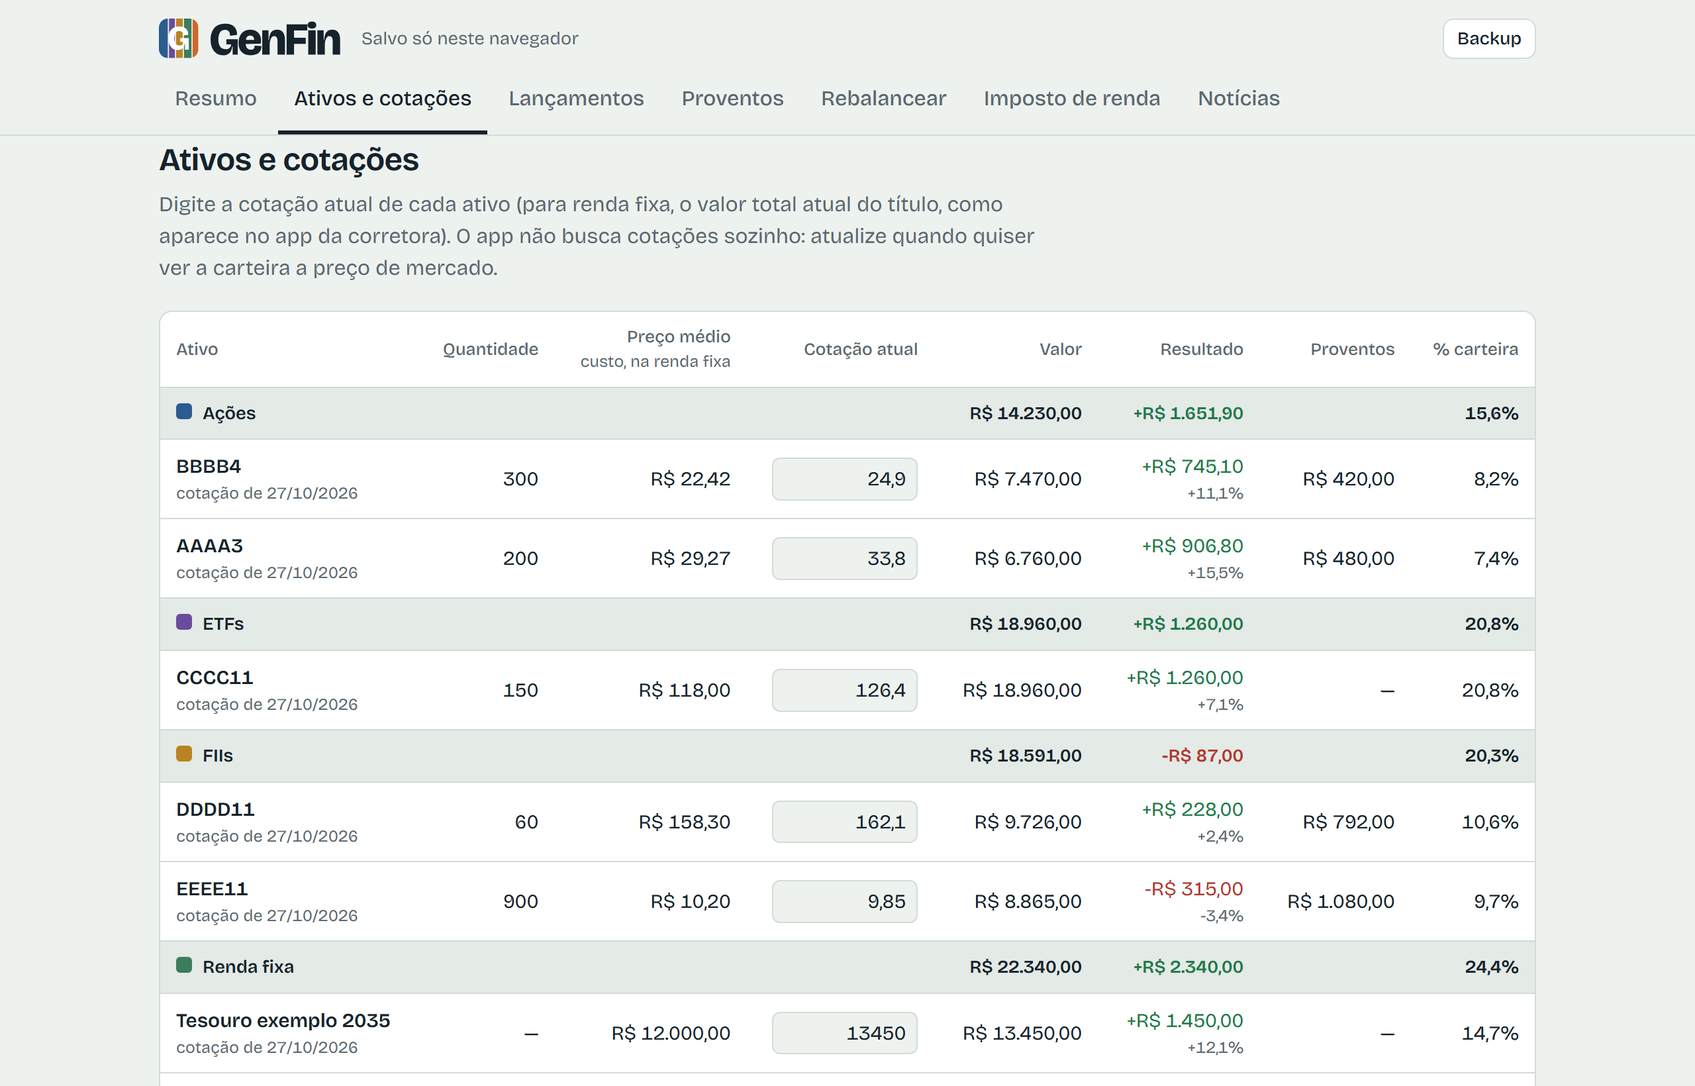
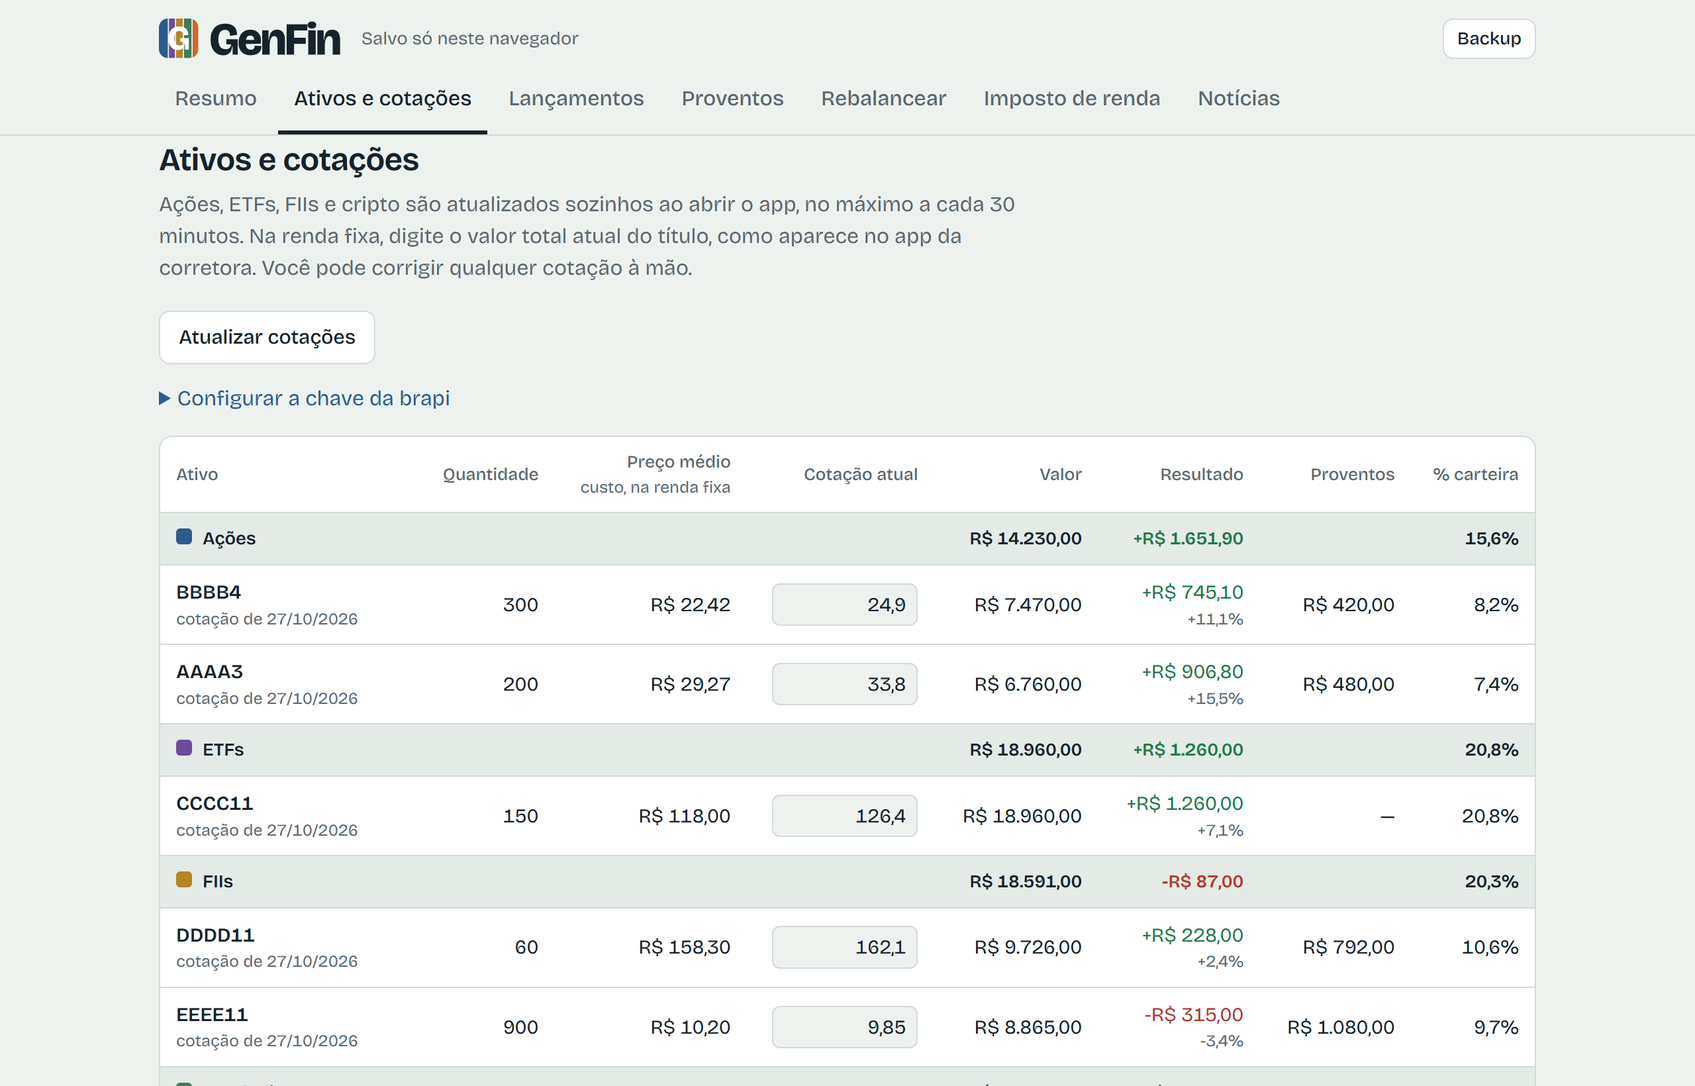
Cotações automáticas: brapi para a B3 e Mercado Bitcoin para cripto
- Ações, ETFs e FIIs pela brapi.dev (chave gratuita, 1 ativo por consulta,
  4 em paralelo); cripto pelo Mercado Bitcoin, numa consulta só e sem chave
- Busca sozinha ao abrir o app, no máximo a cada 30 minutos, e botão
  "Atualizar cotações" na aba Ativos com o resumo da última busca
- A chave fica só no localStorage, fora do backup e da sincronização
- Fracionário (ITSA4F) usa a cotação do lote; renda fixa segue manual
- Chave recusada, limite do plano e falta de rede param a busca sem mexer
  nas cotações; na busca automática só a chave recusada gera aviso
- Não redesenha telas com formulário, e a cotação que chega com o modo
  exemplo aberto vai para a carteira real
- 19 testes novos com as APIs simuladas

diff --git a/carteira.html b/carteira.html
@@ -113,6 +113,13 @@ tfoot td{font-weight:650;border-top:1px solid var(--line)}
 .mini{display:block;color:var(--muted);font-size:.78rem;font-weight:400}
 input.cot{width:110px;text-align:right;border:1px solid var(--line);border-radius:6px;padding:4px 8px;background:var(--bg)}
 input.cot.vazio{border-color:var(--warn)}
+.cotbar{display:flex;gap:8px 14px;align-items:center;flex-wrap:wrap;margin:0 0 14px}
+.cotbar .nota{margin:0}
+.btn[disabled]{opacity:.6;cursor:progress}
+details.chave{margin:0 0 16px;max-width:72ch}
+details.chave summary{cursor:pointer;color:var(--focus);width:max-content;max-width:100%}
+.linha-chave{display:flex;gap:8px;flex-wrap:wrap}
+.linha-chave input{flex:1 1 220px;min-width:0;border:1px solid var(--line);border-radius:8px;padding:8px 10px;background:var(--bg);color:var(--ink)}
 .altura{max-height:460px;overflow:auto}
 
 /* Formulários */
@@ -574,6 +581,80 @@ function rResumo(el){
   </div>`;
 }
 
+/* ---------- Cotações automáticas ---------- */
+// B3 pela brapi.dev (plano gratuito: 1 ativo por requisição, pede chave); cripto pelo Mercado Bitcoin (sem chave).
+// A chave e a hora da última busca ficam só neste navegador: não vão para o backup nem para a conta.
+const LS_CHAVE = "genfin-brapi-chave", LS_BUSCA = "genfin-cotacoes-em";
+const INTERVALO_AUTO = 30*60*1000;   // a brapi gratuita atualiza a cada 30 minutos
+const B3 = ["acao","etf","fii"];
+function lerLS(k){ try{ return localStorage.getItem(k)||""; }catch(e){ return ""; } }
+function gravarLS(k,v){ try{ if(v) localStorage.setItem(k,v); else localStorage.removeItem(k); }catch(e){} }
+let buscando = false, ultimaBusca = null;   // {em, ok, falhas:[ticker], erro}
+
+function simboloB3(t){ return /^[A-Z]{4}\d{1,2}F$/.test(t) ? t.slice(0,-1) : t; }   // fracionário usa o preço do lote
+function erroCot(tipo){ return Object.assign(new Error(tipo), {tipo}); }
+async function cotacaoB3(t, chave){
+  let r; try{ r = await fetch("https://brapi.dev/api/quote/"+encodeURIComponent(simboloB3(t))+"?token="+encodeURIComponent(chave)); }
+  catch(e){ throw erroCot("rede"); }
+  let j=null; try{ j = await r.json(); }catch(e){}
+  if(r.status===401 || /TOKEN/.test((j&&j.code)||"")) throw erroCot("chave");
+  if(r.status===429) throw erroCot("limite");
+  const v = j && Array.isArray(j.results) && j.results[0] ? Number(j.results[0].regularMarketPrice) : NaN;
+  return v>0 ? v : null;
+}
+async function cotacoesCripto(ts){
+  if(!ts.length) return {};
+  let r; try{ r = await fetch("https://api.mercadobitcoin.net/api/v4/tickers?symbols="+ts.map(t=>encodeURIComponent(t+"-BRL")).join(",")); }
+  catch(e){ throw erroCot("rede"); }
+  if(!r.ok) throw erroCot("servico");
+  const j = await r.json(); const out = {};
+  (Array.isArray(j)?j:[]).forEach(x=>{ const t=String(x.pair||"").replace(/-BRL$/,""), v=Number(x.last); if(v>0) out[t]=v; });
+  return out;
+}
+async function atualizarCotacoes({auto=false}={}){
+  if(buscando) return;
+  if(demo){ if(!auto) toast("No modo exemplo os ativos são fictícios e não têm cotação."); return; }
+  const alvo = S;   // a carteira pode trocar durante a busca (modo exemplo); as cotações vão para a de origem
+  const abertas = calcular().lista.filter(p=>p.qtd>0);
+  const chave = lerLS(LS_CHAVE);
+  const b3 = chave ? abertas.filter(p=>B3.includes(p.classe)).map(p=>p.ticker) : [];
+  const cripto = abertas.filter(p=>p.classe==="cripto").map(p=>p.ticker);
+  if(!b3.length && !cripto.length){
+    if(!auto) toast(abertas.some(p=>B3.includes(p.classe)) ? "Cole a chave da brapi para buscar ações, ETFs e FIIs." : "Nenhum ativo da carteira tem cotação automática.");
+    return;
+  }
+  buscando = true; if(abaAtual==="ativos") render("ativos");
+  const novos = {}, falhas = []; let erro = null;
+  try{ const c = await cotacoesCripto(cripto); cripto.forEach(t=>{ if(c[t]) novos[t]=c[t]; else falhas.push(t); }); }
+  catch(e){ erro = e.tipo==="rede" ? "rede" : null; falhas.push(...cripto); }
+  const fila = [...b3];
+  const trabalhador = async ()=>{
+    while(fila.length && !["chave","limite","rede"].includes(erro)){
+      const t = fila.shift();
+      try{ const v = await cotacaoB3(t, chave); if(v) novos[t]=v; else falhas.push(t); }
+      catch(e){ if(["chave","limite","rede"].includes(e.tipo)) erro = e.tipo; falhas.push(t); }
+    }
+  };
+  await Promise.all([1,2,3,4].map(trabalhador));
+  falhas.push(...fila);   // o que ficou na fila depois de um erro geral
+  const hoje = hojeISO();
+  Object.entries(novos).forEach(([t,v])=>{ alvo.precos[t] = {v, em:hoje}; });
+  const ok = Object.keys(novos).length;
+  if(ok && S===alvo){ registrarHist(); salvar("carteira","historico"); }
+  gravarLS(LS_BUSCA, String(Date.now()));
+  ultimaBusca = {em:Date.now(), ok, falhas:[...new Set(falhas)], erro};
+  buscando = false;
+  // Só redesenha as telas sem formulário, para não apagar o que a pessoa está digitando
+  if(abaAtual==="ativos" || abaAtual==="resumo") render(abaAtual);
+  if(!auto || erro==="chave") toast(resumoBusca(ultimaBusca));
+}
+function resumoBusca(b){
+  const msg = {chave:"A brapi recusou a chave. Confira a chave em Ativos e cotações.", limite:"A brapi atingiu o limite de consultas do plano. Tente mais tarde.", rede:"Não foi possível acessar os serviços de cotação daqui. Digite as cotações à mão."}[b.erro];
+  if(msg) return (b.ok ? `${b.ok} ${b.ok===1?"cotação atualizada":"cotações atualizadas"}. ` : "") + msg;
+  return `${b.ok} ${b.ok===1?"cotação atualizada":"cotações atualizadas"}` + (b.falhas.length ? `. Sem cotação: ${b.falhas.join(", ")}.` : ".");
+}
+function precisaBuscar(){ return Date.now() - Number(lerLS(LS_BUSCA)||0) > INTERVALO_AUTO; }
+
 /* ---------- Ativos e cotações ---------- */
 function rAtivos(el){
   const c = calcular();
@@ -598,14 +679,33 @@ function rAtivos(el){
         <td>${pct(c.total?p.valor/c.total:0)}</td></tr>`;
     }
   }
+  const chave = lerLS(LS_CHAVE), temB3 = ativas.some(p=>B3.includes(p.classe));
   el.innerHTML = `<h2>Ativos e cotações</h2>
-  <p class="sub">Digite a cotação atual de cada ativo (para renda fixa, o valor total atual do título, como aparece no app da corretora). O app não busca cotações sozinho: atualize quando quiser ver a carteira a preço de mercado.</p>
+  <p class="sub">Ações, ETFs, FIIs e cripto são atualizados sozinhos ao abrir o app, no máximo a cada 30 minutos. Na renda fixa, digite o valor total atual do título, como aparece no app da corretora. Você pode corrigir qualquer cotação à mão.</p>
+  <div class="cotbar">
+    <button class="btn" data-act="atualizar-cot"${buscando?" disabled":""}>${buscando?"Buscando cotações…":"Atualizar cotações"}</button>
+    <span class="nota" aria-live="polite">${esc(statusBusca())}</span>
+  </div>
+  ${temB3||chave?`<details class="chave"${!chave&&!demo?" open":""}>
+    <summary>${chave?"Chave da brapi configurada":"Configurar a chave da brapi"}</summary>
+    <p class="nota">As cotações de ações, ETFs e FIIs vêm da <a href="https://brapi.dev" target="_blank" rel="noopener noreferrer">brapi.dev</a>, que pede uma chave gratuita: 15 mil consultas por mês, com dados atualizados a cada 30 minutos. Crie a sua no site e cole aqui. Cripto vem do Mercado Bitcoin e não precisa de chave. A chave fica só neste navegador e não entra no backup.</p>
+    <div class="linha-chave"><input id="chave-brapi" type="password" autocomplete="off" spellcheck="false" placeholder="${chave?"Cole uma nova chave para trocar":"Cole a chave aqui"}" aria-label="Chave da brapi">
+      <button class="btn" data-act="salvar-chave">Salvar chave</button>${chave?`<button class="btn perigo" data-act="remover-chave" data-armar="Confirmar">Remover</button>`:""}</div>
+  </details>`:""}
   <div class="rolagem"><table>
     <thead><tr><th>Ativo</th><th>Quantidade</th><th>Preço médio<span class="mini">custo, na renda fixa</span></th><th>Cotação atual</th><th>Valor</th><th>Resultado</th><th>Proventos</th><th>% carteira</th></tr></thead>
     <tbody>${linhas}</tbody>
     <tfoot><tr><td>Total</td><td></td><td>${brl(c.custo)}</td><td></td><td>${brl(c.total)}</td><td class="${cls(c.total-c.custo)}">${brlSinal(c.total-c.custo)}</td><td>${brl(c.provs)}</td><td>100%</td></tr></tfoot>
   </table></div>
   <p class="nota">Ativos com borda destacada estão sem cotação e entram no total pelo preço médio.</p>`;
+}
+function statusBusca(){
+  if(buscando) return "";
+  const em = ultimaBusca ? ultimaBusca.em : Number(lerLS(LS_BUSCA)||0);
+  if(!em) return "";
+  const d = new Date(em), hora = d.toLocaleTimeString("pt-BR",{hour:"2-digit",minute:"2-digit"});
+  const quando = isoLocal(d)===hojeISO() ? "hoje às "+hora : dataBR(isoLocal(d))+" às "+hora;
+  return "Última busca "+quando+(ultimaBusca ? ": "+resumoBusca(ultimaBusca) : ".");
 }
 function salvarCotacao(inp){
   const t = inp.dataset.t; const v = parseNum(inp.value);
@@ -994,13 +1094,23 @@ document.addEventListener("click", e=>{
   else if(a==="fechar-backup") $("#dlg-backup").close();
   else if(a==="exportar-json") baixar("carteira-backup-"+hojeISO()+".json", JSON.stringify(demo?realGuardado:S,null,1));
   else if(a==="exportar-csv") baixar("lancamentos-"+hojeISO()+".csv", csvLanc());
+  else if(a==="atualizar-cot") atualizarCotacoes();
+  else if(a==="salvar-chave"){
+    const v = $("#chave-brapi").value.trim();
+    if(!v){ toast("Cole a chave antes de salvar."); return; }
+    gravarLS(LS_CHAVE, v); toast("Chave salva. Buscando cotações…"); atualizarCotacoes();
+  }
+  else if(a==="remover-chave"){ gravarLS(LS_CHAVE, ""); render("ativos"); toast("Chave removida"); }
   else if(a==="apagar-tudo"){ if(demo) sairDemo(); S=vazio(); salvar(...TODOS_DOCS); renderTudo(); b.classList.remove("armado"); b.textContent="Apagar todos os dados"; $("#backup-msg").textContent="Todos os dados foram apagados."; }
 });
 document.addEventListener("change", e=>{
   if(e.target.matches("input.cot")){ if(demo){ toast("No modo exemplo nada é salvo."); return; } salvarCotacao(e.target); }
   if(e.target.id==="arq-import" && e.target.files[0]){ importar(e.target.files[0]); e.target.value=""; }
 });
-document.addEventListener("keydown", e=>{ if(e.key==="Enter" && e.target.matches("input.cot")) e.target.blur(); });
+document.addEventListener("keydown", e=>{
+  if(e.key==="Enter" && e.target.matches("input.cot")) e.target.blur();
+  if(e.key==="Enter" && e.target.id==="chave-brapi") $('[data-act="salvar-chave"]').click();
+});
 window.addEventListener("hashchange", ()=>{ const h=location.hash.slice(1); if(ABAS.includes(h)) irPara(h); });
 
 /* ---------- Início ---------- */
@@ -1008,7 +1118,8 @@ carregarLocal();
 atualizarDatalist();
 irPara(ABAS.includes(location.hash.slice(1)) ? location.hash.slice(1) : "resumo");
 estado("Salvo só neste navegador");
-conectar();
+// Busca cotações depois de carregar os dados da conta, para atualizar a carteira mais recente
+conectar().then(()=>{ if(precisaBuscar()) atualizarCotacoes({auto:true}); });
 </script>
 </body>
 </html>

diff --git a/tests/carteira.test.js b/tests/carteira.test.js
@@ -15,8 +15,10 @@ const mem = {};
 const ambiente = {
   document:{ querySelector:q, querySelectorAll:()=>[], addEventListener(){} },
   window:{ addEventListener(){}, scrollTo(){}, scrollY:0 },
-  localStorage:{ getItem:k=>mem[k]??null, setItem:(k,v)=>{mem[k]=v;} },
-  location:{hash:""}, fakeEl
+  localStorage:{ getItem:k=>mem[k]??null, setItem:(k,v)=>{mem[k]=v;}, removeItem:k=>{delete mem[k];} },
+  location:{hash:""}, fakeEl, mem,
+  // fetch simulado: cada teste troca globalThis.__fetch
+  fetch:(...a)=>globalThis.__fetch(...a)
 };
 const testes = `
 let falhas=0; const ok=(c,m)=>{ if(!c){falhas++; console.log("FALHOU:",m);} else console.log("ok:",m); };
@@ -81,6 +83,72 @@ ok(/acima de R\\$ 50 mil no mês: BBAS3 em mar\\/26\\./.test(el.innerHTML), "avi
 ok(/isentos até R\\$ 50 mil/.test(el.innerHTML), "rótulo novo em 2026");
 anoIR="2025"; S.txs.push({id:"c",criado:0,data:"2025-01-01",tipo:"compra",classe:"acao",ticker:"BBAS3",qtd:1,preco:1,taxas:0});
 const el2=fakeEl(); rIR(el2); ok(!/Lei 15.270/.test(el2.innerHTML) && /rendimentos isentos/.test(el2.innerHTML), "2025 mantém texto antigo");
+
+// 8. cotações automáticas
+const resp = (status, corpo) => Promise.resolve({ ok: status<400, status, json: async()=>corpo });
+const B3P = { PETR4:53.25, ITSA4:10.5, HGLG11:160.4 };
+let chamadas = [];
+const mercado = url => {
+  chamadas.push(url);
+  if(url.includes("mercadobitcoin")){
+    const pedidos = decodeURIComponent(url.split("symbols=")[1]).split(",");
+    return resp(200, pedidos.filter(s=>s==="BTC-BRL").map(s=>({pair:s, last:"430325.00000000"})));
+  }
+  const sim = decodeURIComponent(url.split("/quote/")[1].split("?")[0]);
+  if(!url.includes("token=chave-boa")) return resp(401, {error:true, code:"INVALID_TOKEN"});
+  return B3P[sim] ? resp(200, {results:[{symbol:sim, regularMarketPrice:B3P[sim]}]}) : resp(404, {error:true, message:"Não encontramos"});
+};
+let avisos2 = []; toast = m=>avisos2.push(m);
+abaAtual = "ir";
+S = vazio(); S.atualizado = 1;
+[["acao","PETR4",100,30],["acao","ITSA4F",37,9],["fii","HGLG11",10,150],["acao","XPTO3",5,10],["cripto","BTC",0.01,300000],["cripto","FAKECOIN",3,1]].forEach(([classe,ticker,qtd,preco])=>
+  add({classe, tipo:"compra", data:"2026-01-05", ticker, qtd:String(qtd).replace(".",","), preco:String(preco)}));
+add({classe:"rf",tipo:"compra",data:"2026-01-05",ticker:"CDB Y",valor:"1000"});
+ok(S.txs.length===7, "monta carteira para cotações");
+
+globalThis.__fetch = mercado; chamadas = [];
+await atualizarCotacoes({auto:true});
+ok(chamadas.length===1 && chamadas[0].includes("mercadobitcoin") && S.precos.BTC.v===430325, "sem chave busca só cripto, sem chamar a brapi");
+ok(ultimaBusca.falhas.includes("FAKECOIN") && !S.precos.FAKECOIN, "cripto inexistente fica sem cotação");
+
+mem[LS_CHAVE] = "chave-ruim"; chamadas = []; avisos2 = [];
+await atualizarCotacoes({auto:true});
+ok(ultimaBusca.erro==="chave" && !S.precos.PETR4 && /recusou a chave/.test(avisos2[0]||""), "chave recusada avisa mesmo na busca automática: "+avisos2[0]);
+ok(chamadas.filter(u=>u.includes("brapi")).length<=4, "para de consultar a brapi depois da chave recusada");
+
+mem[LS_CHAVE] = "chave-boa"; chamadas = []; avisos2 = [];
+const histAntes = S.hist.length; S.hist = [];
+await atualizarCotacoes();
+ok(S.precos.PETR4.v===53.25 && S.precos.HGLG11.v===160.4 && S.precos.PETR4.em===hojeISO(), "atualiza ações e FIIs com a data de hoje");
+ok(S.precos.ITSA4F.v===10.5 && chamadas.some(u=>u.includes("/quote/ITSA4?")), "fracionário usa a cotação do lote");
+ok(ultimaBusca.falhas.join()==="FAKECOIN,XPTO3" || ultimaBusca.falhas.sort().join()==="FAKECOIN,XPTO3", "lista o que ficou sem cotação: "+ultimaBusca.falhas.join());
+ok(!("CDB Y" in S.precos) && !chamadas.some(u=>u.includes("CDB")), "renda fixa não é consultada");
+ok(S.hist.length===1 && mem[LS_BUSCA], "registra o patrimônio do dia e a hora da busca");
+ok(/4 cotações atualizadas\\. Sem cotação: /.test(avisos2[0]||""), "resumo da busca manual: "+avisos2[0]);
+
+ok(!JSON.stringify(S).includes("chave-boa") && !JSON.stringify(DOCS.carteira(S)).includes("chave-boa"), "a chave não vai para o backup nem para a conta");
+mem[LS_BUSCA] = String(Date.now()); ok(!precisaBuscar(), "não busca de novo antes de 30 minutos");
+mem[LS_BUSCA] = String(Date.now()-31*60*1000); ok(precisaBuscar(), "busca de novo depois de 30 minutos");
+
+globalThis.__fetch = ()=>Promise.reject(new TypeError("Failed to fetch")); avisos2 = [];
+const antes = JSON.stringify(S.precos);
+await atualizarCotacoes({auto:true});
+ok(ultimaBusca.erro==="rede" && JSON.stringify(S.precos)===antes && avisos2.length===0, "sem rede não muda nada e não incomoda na busca automática");
+await atualizarCotacoes();
+ok(/Não foi possível acessar/.test(avisos2[0]||""), "sem rede avisa na busca manual");
+
+const elA = fakeEl(); rAtivos(elA);
+ok(/Atualizar cotações/.test(elA.innerHTML) && /Chave da brapi configurada/.test(elA.innerHTML) && /Última busca hoje às/.test(elA.innerHTML), "aba Ativos mostra botão, chave e última busca");
+
+entrarDemo(); chamadas = []; globalThis.__fetch = mercado;
+await atualizarCotacoes(); ok(chamadas.length===0, "modo exemplo não consulta cotações"); sairDemo();
+
+// busca começa na carteira real e o modo exemplo abre no meio dela
+let soltar; globalThis.__fetch = url => new Promise(r=>{ soltar = ()=>r(mercado(url)); });
+delete S.precos.BTC; mem[LS_CHAVE] = "";
+const busca = atualizarCotacoes(); entrarDemo(); soltar(); await busca;
+ok(S.precos.BTC.v===345000 && realGuardado.precos.BTC && realGuardado.precos.BTC.v===430325, "cotação que chega no modo exemplo vai para a carteira real");
+sairDemo();
 
 console.log(falhas? falhas+" falha(s)" : "todos passaram");
 return falhas;

diff --git a/README.md b/README.md
@@ -45,7 +45,7 @@ Preço médio, alocação, proventos, rebalanceamento e imposto de renda para qu
 | | |
 |---|---|
 | 📊 **Resumo** | Patrimônio, valorização em aberto, lucro realizado, proventos e resultado sobre o total aportado. Alocação atual comparada com a meta e gráfico de evolução. |
-| 💹 **Ativos e cotações** | Posição por classe com quantidade, preço médio, valor de mercado, resultado e peso na carteira. Você informa a cotação; sem ela, o ativo entra pelo preço médio. |
+| 💹 **Ativos e cotações** | Posição por classe com quantidade, preço médio, valor de mercado, resultado e peso na carteira. Cotações automáticas de ações, ETFs, FIIs e cripto; renda fixa e correções, à mão. |
 | 🧾 **Lançamentos** | Compras e vendas com taxas da nota de corretagem. Aplicações e resgates de renda fixa. Impede vendas maiores que o saldo, inclusive em datas retroativas. |
 | 💰 **Proventos** | Dividendos, JCP e rendimentos de FIIs, com gráfico dos últimos 12 meses e rendimento sobre o custo por ativo. |
 | ⚖ **Rebalancear** | Metas por classe e sugestão de como dividir um novo aporte para se aproximar delas, só com compras. |
@@ -78,7 +78,20 @@ Não há instalação nem build. O app inteiro é o [`carteira.html`](carteira.h
 
 1. Abra o `carteira.html` no navegador.
 2. Clique em **Ver com dados de exemplo** para conhecer as telas sem registrar nada, ou em **Adicionar lançamento** para começar a sua carteira.
-3. Atualize as cotações na aba **Ativos e cotações** sempre que quiser ver a carteira a preço de mercado.
+3. Para cotações automáticas de ações, ETFs e FIIs, crie uma chave gratuita na [brapi.dev](https://brapi.dev) e cole na aba **Ativos e cotações**. Cripto funciona sem chave.
+
+### Cotações automáticas
+
+| Classe | Fonte | Chave | Atualização |
+|---|---|---|---|
+| Ações, ETFs e FIIs | [brapi.dev](https://brapi.dev) | Gratuita, 15 mil consultas por mês | Dados a cada 30 minutos |
+| Cripto | [Mercado Bitcoin](https://www.mercadobitcoin.com.br) | Não precisa | Último negócio em reais |
+| Renda fixa | Você digita o valor atual do título | — | — |
+
+- O app busca sozinho ao abrir, no máximo a cada 30 minutos, e há um botão **Atualizar cotações**.
+- No plano gratuito, a brapi responde um ativo por consulta; o app faz quatro de cada vez.
+- Ações fracionárias (como `ITSA4F`) usam a cotação do lote (`ITSA4`).
+- O que não for encontrado continua com a última cotação, ou pelo preço médio, e aparece na mensagem da busca.
 
 O app também roda como **Artifact no claude.ai**. Lá ele usa o login e o banco de dados da conta para guardar os dados e sincronizar entre aparelhos.
 
@@ -92,7 +105,8 @@ flowchart LR
     S --> B[Backup<br>.json / .csv]
 ```
 
-- **Sempre no navegador**, na chave `carteira-v1` do `localStorage`. Fora do claude.ai, os dados não saem do seu computador.
+- **Sempre no navegador**, na chave `carteira-v1` do `localStorage`. Fora do claude.ai, a carteira não sai do seu computador. Para as cotações, só os **códigos** dos ativos (como `PETR4` ou `BTC`) vão para a brapi e o Mercado Bitcoin; quantidades e valores nunca são enviados.
+- **A chave da brapi** fica só no navegador, separada da carteira. Ela não entra no backup nem vai para a conta.
 - **No claude.ai**, também na conta do usuário, em quatro documentos (`carteira`, `lancamentos`, `proventos` e `historico`). Cada salvamento leva data e hora. Ao abrir, o lado mais recente vence, para não perder alterações feitas sem conexão.
 - **Backup:** o botão no topo exporta tudo em `.json`, exporta os lançamentos em `.csv` e restaura um backup. Os arquivos exportados estão no `.gitignore`, para não irem parar no repositório por engano.
 
@@ -145,7 +159,7 @@ Os testes rodam no Node 18 ou mais recente, sem instalar nada:
 npm test
 ```
 
-Eles cobrem a validação de saldo (vendas e resgates retroativos, exclusão de compras), a sincronização entre o navegador e a conta e o aviso de dividendos acima de R$ 50 mil.
+Eles cobrem a validação de saldo (vendas e resgates retroativos, exclusão de compras), a sincronização entre o navegador e a conta, o aviso de dividendos acima de R$ 50 mil e as cotações automáticas, com as APIs simuladas (chave recusada, ativo inexistente, falta de rede e modo exemplo).
 
 Para regenerar as capturas depois de mudar a interface (precisa do Chrome ou do Edge instalado):
 
@@ -177,7 +191,7 @@ Fonte: [Bricolage Grotesque](https://fonts.google.com/specimen/Bricolage+Grotesq
 
 ## Próximos passos
 
-- [ ] Cotações automáticas (brapi.dev para a B3, CoinGecko para cripto), mantendo a digitação manual
+- [x] Cotações automáticas (brapi.dev para a B3, Mercado Bitcoin para cripto), mantendo a digitação manual
 - [ ] Editar lançamentos, não só excluir
 - [ ] Download real do backup fora do claude.ai
 - [ ] Publicar no GitHub Pages
